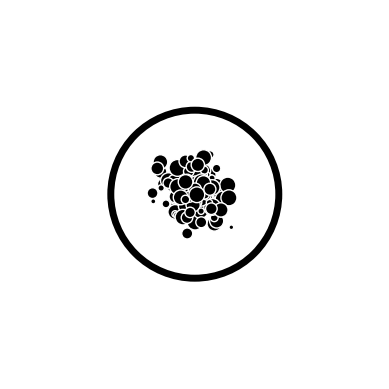
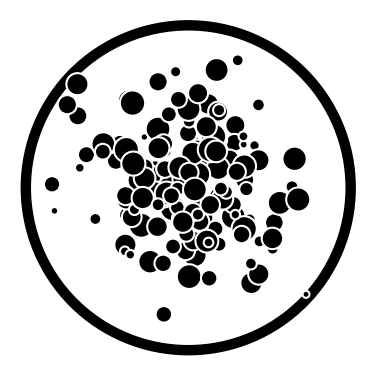
test

diff --git a/images/icon.py b/images/icon.py
@@ -1,0 +1,37 @@
+
+import numpy as np
+import matplotlib.pyplot as plt
+
+
+while True:
+
+    seed = 4086
+    # seed = np.random.randint(10000)
+    print(seed)
+    np.random.seed(seed)
+
+    # Set up the circular background
+    fig, ax = plt.subplots(figsize=(3, 3))
+    ax.set_aspect('equal')
+    ax.set_xlim([-.32, .32])
+    ax.set_ylim([-.32, .32])
+    circle = plt.Circle((0, 0), .3, color='k', lw=5, fill=False)
+    ax.add_artist(circle)
+
+    N = 150
+
+    # Generate random coordinates for the points in a 2D Gaussian distribution
+    mean = [0, 0]
+    cov = [[0.01, 0], [0, 0.01]]
+    x, y = np.random.multivariate_normal(mean, cov, N).T
+    print(np.round(x, 2))
+    print(np.round(y, 2))
+
+    # Plot the black points
+    s_r = np.random.uniform(10, 150, N)
+    ax.scatter(x, y, color='black', s=s_r, ec='w')
+
+    ax.axis('off')
+    # Show the plot
+    plt.savefig('icon.png', dpi=150, transparent=True, bbox_inches='tight')
+    plt.show()
